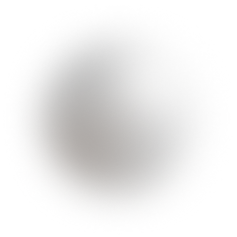
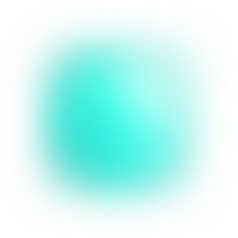
홍보관 메인 에듀테크 이미지 교체건

diff --git a/aiStoryChat/html/student/chating.html b/aiStoryChat/html/student/chating.html
@@ -13,7 +13,7 @@
         <meta property="og:url" content="" />
         <meta name="viewport" content="user-scalable=0, initial-scale=1.0, maximum-scale=1.0, minimum-scale=1.0, width=device-width, height=device-height, viewport-fit=cover" />
 
-        <title>학생 접속완료 | AI 스토리챗 </title>
+        <title>학생 대화 진행 화면 | AI 스토리챗 </title>
         <link rel="stylesheet" href="../../asset/inc/ele/css/set-ele.css">
     </head>
     <body>

diff --git a/aiStoryChat/html/student/story.html b/aiStoryChat/html/student/story.html
@@ -13,7 +13,7 @@
         <meta property="og:url" content="" />
         <meta name="viewport" content="user-scalable=0, initial-scale=1.0, maximum-scale=1.0, minimum-scale=1.0, width=device-width, height=device-height, viewport-fit=cover" />
 
-        <title>학생 접속완료 | AI 스토리챗 </title>
+        <title>학생 스토리쳇 확인 | AI 스토리챗 </title>
         <link rel="stylesheet" href="../../asset/inc/ele/css/set-ele.css">
     </head>
     <body>
